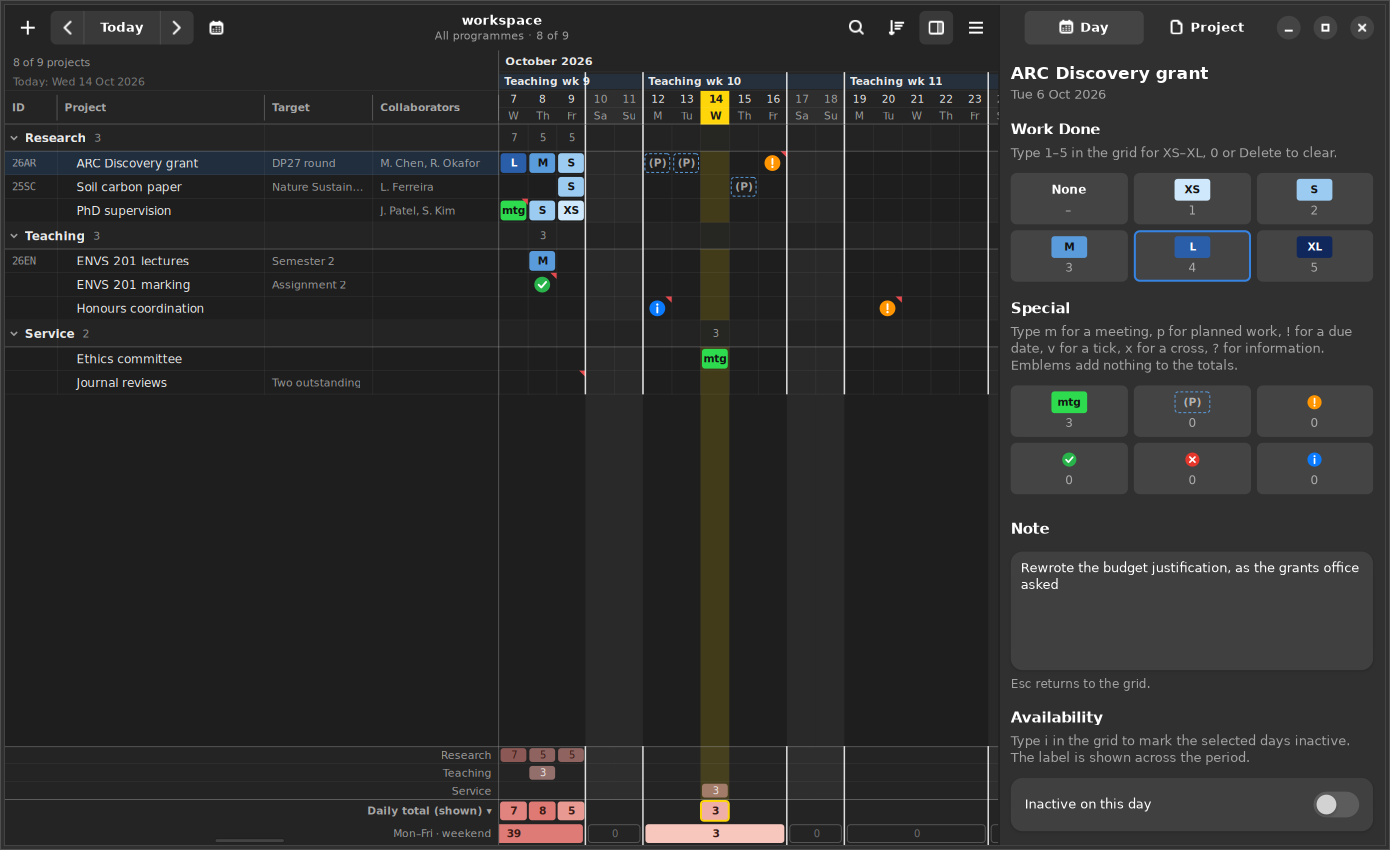
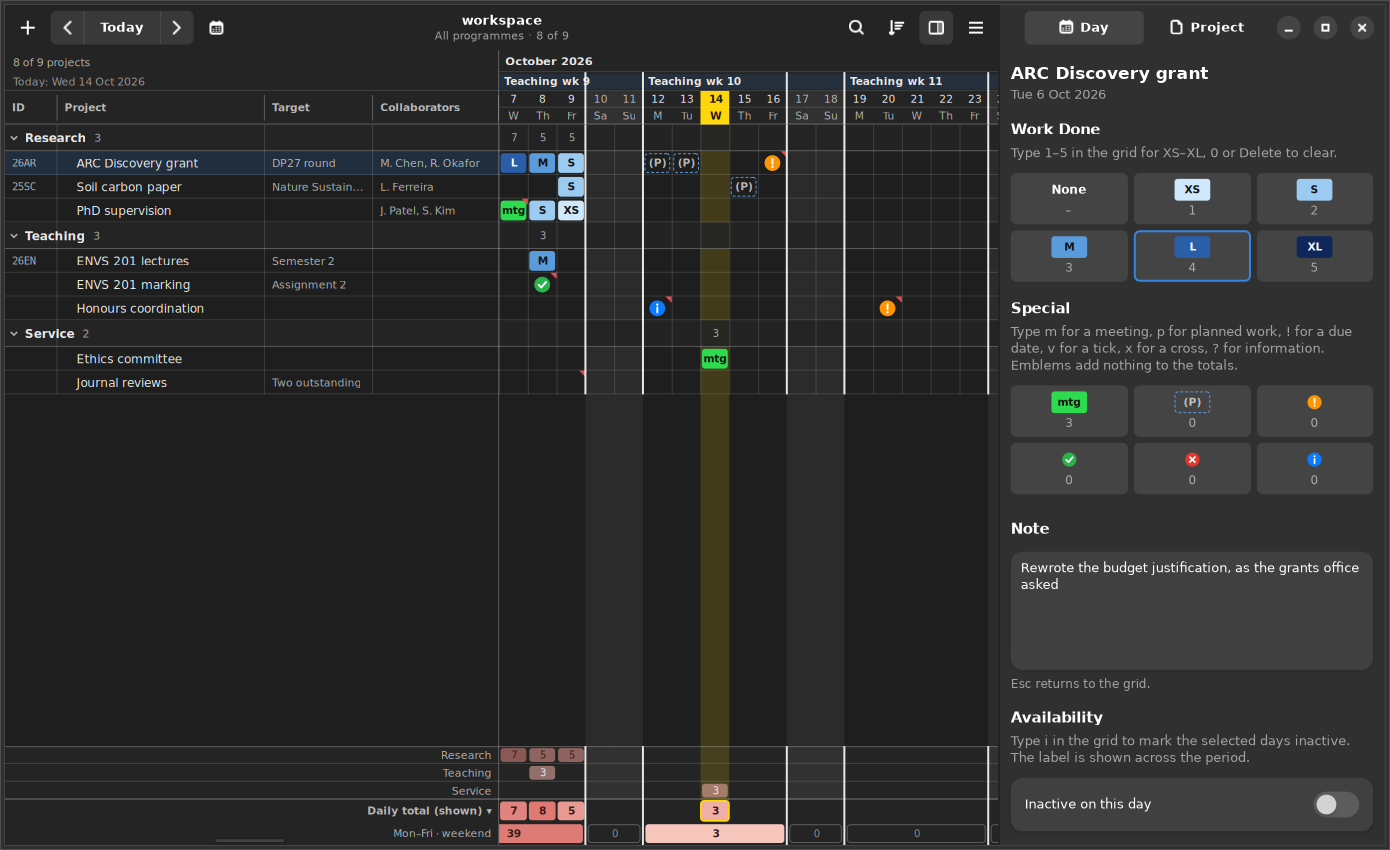
[AI-assisted] [fix] Make grid lines, hatching and greys as crisp and dark as on macOS
Grid lines were drawn half a pixel wide at half-pixel positions, with a fractional scroll offset, so on 1× screens they were blended over two pixels at half strength; the grid now draws on whole device pixels, matching the macOS edition's 0.5 pt Retina lines. Grid lines, inactive-day hatching and the weekend tint are a step darker, and dimmed text gets a little more contrast through one palette constant, leaving the label and totals colours unchanged.

Changed region(s): [[0.4022, 0.1529, 0.4331, 0.1835]]

diff --git a/qdvc/gtk4/gtk4_grid.py b/qdvc/gtk4/gtk4_grid.py
@@ -298,6 +298,7 @@ class ProgressGrid(Gtk.DrawingArea, Gtk.Scrollable):
         self._menu: Gtk.PopoverMenu | None = None
         self.callout = NoteCallout(self)
         self._hsig = self._vsig = None
+        self._px = 1.0           # one device pixel, in widget units
 
         self.connect("notify::hadjustment", self._on_adjustment_set, "h")
         self.connect("notify::vadjustment", self._on_adjustment_set, "v")
@@ -482,7 +483,11 @@ class ProgressGrid(Gtk.DrawingArea, Gtk.Scrollable):
         s, m = self.s, self.m
         pal = Palette(self)
         lw, top, bw, bh = self._viewport()
-        ox, oy = self.ox, self.oy
+        # Whole device pixels: with a fractional scroll offset every line
+        # would be blended over two pixels at half strength.
+        sf = max(1, self.get_scale_factor())
+        self._px = 1.0 / sf
+        ox, oy = round(self.ox * sf) / sf, round(self.oy * sf) / sf
         days = m.days_in(ox, ox + bw)
         rows = m.rows_in(oy, oy + bh)
 
@@ -535,13 +540,16 @@ class ProgressGrid(Gtk.DrawingArea, Gtk.Scrollable):
     def _working_week_lines(self, cr, pal, days, x_of, y, h):
         if not self.s.outline_working_week or h <= 0:
             return
+        # 1.5 px, as the macOS edition's 1.5 pt, rounded to whole device
+        # pixels and centred on the column boundary.
+        px = self._px
+        w = max(1, round(1.5 / px)) * px
         rgba(cr, pal.text(0.85))
         for d in range(days.start - 1, days.stop + 1):
             wd = self.s.date_at(d).isoweekday()
-            if wd == 1:
-                cr.rectangle(x_of(d) - 0.75, y, 1.5, h)
-            elif wd == 5:
-                cr.rectangle(x_of(d + 1) - 0.75, y, 1.5, h)
+            if wd in (1, 5):
+                edge = x_of(d) if wd == 1 else x_of(d + 1)
+                cr.rectangle(round((edge - w / 2) / px) * px, y, w, h)
         cr.fill()
 
     def _draw_body(self, cr, pal, days, rows, ox, oy, bw, bh):
@@ -580,8 +588,8 @@ class ProgressGrid(Gtk.DrawingArea, Gtk.Scrollable):
                     continue
                 start, end = max(period.range.start, first_day), min(period.range.end, last_day)
                 x0, x1 = m.day_x(s.day_index(start)), m.day_x(s.day_index(end) + 1)
-                rect(cr, x0, top, x1 - x0, h, pal.tint(0.05))
-                hatch(cr, x0, top, x1 - x0, h, pal.text(0.22))
+                rect(cr, x0, top, x1 - x0, h, pal.tint(0.07))
+                hatch(cr, x0, top, x1 - x0, h, pal.text(0.30))
                 label = period.label.strip()
                 if not label:
                     continue
@@ -619,12 +627,12 @@ class ProgressGrid(Gtk.DrawingArea, Gtk.Scrollable):
         bottom = min(y1, m.content_h)
         for d in days:
             weekstart = s.date_at(d).isoweekday() == 1
-            rect(cr, m.day_x(d), y0, 1 if weekstart else 0.5, max(0, bottom - y0),
+            rect(cr, m.day_x(d), y0, 1 if weekstart else self._px, max(0, bottom - y0),
                  pal.line(weekstart))
         for r in rows:
             y = m.row_tops[r + 1]
-            rect(cr, ox, y - 0.5, bw, 0.5 if not s.rows[r].is_programme else 1,
-                 pal.line(s.rows[r].is_programme))
+            w = 1 if s.rows[r].is_programme else self._px
+            rect(cr, ox, y - w, bw, w, pal.line(s.rows[r].is_programme))
         self._working_week_lines(cr, pal, days, m.day_x, y0, bottom - y0)
         self._draw_selection(cr, pal)
 
@@ -712,7 +720,7 @@ class ProgressGrid(Gtk.DrawingArea, Gtk.Scrollable):
 
         self._working_week_lines(cr, pal, days, x, ry[1], h_total - ry[1])
         for i in (1, 2, 3):
-            rect(cr, 0, ry[i] - 0.5, bw, 0.5, pal.line())
+            rect(cr, 0, ry[i] - self._px, bw, self._px, pal.line())
         rect(cr, 0, h_total - 1, bw, 1, pal.line(True))
 
     def _draw_left(self, cr, pal, rows, oy, lw, bh):
@@ -735,7 +743,7 @@ class ProgressGrid(Gtk.DrawingArea, Gtk.Scrollable):
                 f.draw(cr, title, 22 * f.scale, y, tw + 2, h, f.programme, pal.text(0.9))
                 f.draw(cr, str(row.count), 22 * f.scale + tw + 8, y, 40, h, f.secondary,
                        pal.text(0.5), numeric=True)
-                rect(cr, 0, y + h - 0.5, lw, 1, pal.line(True))
+                rect(cr, 0, y + h - 1, lw, 1, pal.line(True))
                 continue
             p = s.project(row.key)
             if p is None:
@@ -756,10 +764,10 @@ class ProgressGrid(Gtk.DrawingArea, Gtk.Scrollable):
                     f.draw(cr, p.target, tx, y, tw, h, f.secondary, pal.text(0.55))
                 else:
                     f.draw(cr, p.collaborators, tx, y, tw, h, f.secondary, pal.text(0.55))
-            rect(cr, 0, y + h - 0.5, lw, 0.5, pal.line())
+            rect(cr, 0, y + h - self._px, lw, self._px, pal.line())
         height = min(bh, m.content_h - oy)
         for _, cx, cw in m.columns[:-1]:
-            rect(cr, cx + cw - 0.5, 0, 0.5, max(0, height), pal.line())
+            rect(cr, cx + cw - self._px, 0, self._px, max(0, height), pal.line())
         rect(cr, lw - 1, 0, 1, bh, pal.line(True))
 
     def _draw_chevron(self, cr, pal, cx, cy, collapsed):
@@ -792,7 +800,7 @@ class ProgressGrid(Gtk.DrawingArea, Gtk.Scrollable):
                 title += " \u25b2" if s.query.ascending else " \u25bc"
             f.draw(cr, title, cx + 7, top, cw - 12, hh, f.header_bold, pal.text(0.6))
             rect(cr, cx + cw - 1, top + 4, 1, hh - 8, pal.line(True))
-        rect(cr, 0, top - 0.5, lw, 0.5, pal.line())
+        rect(cr, 0, top - self._px, lw, self._px, pal.line())
         rect(cr, 0, m.header_h - 1, lw, 1, pal.line(True))
         rect(cr, lw - 1, 0, 1, m.header_h, pal.line(True))
 
@@ -829,7 +837,7 @@ class ProgressGrid(Gtk.DrawingArea, Gtk.Scrollable):
                 if pal.dark and level <= 0.3:
                     colour = pal.text(0.85)
                 f.centred(cr, str(t), cx, y, m.cell_w, sub, f.small, colour)
-            rect(cr, 0, y + sub - 0.5, bw, 0.5, pal.line())
+            rect(cr, 0, y + sub - self._px, bw, self._px, pal.line())
 
         t0 = m.totals_top
         r0, r1 = m.footer_rows
@@ -864,7 +872,7 @@ class ProgressGrid(Gtk.DrawingArea, Gtk.Scrollable):
         self._working_week_lines(cr, pal, days, x, 0, fh)
         rect(cr, 0, 0, bw, 1, pal.line(True))
         if t0 > 0:
-            rect(cr, 0, t0 - 0.5, bw, 1, pal.line(True))
+            rect(cr, 0, t0 - 1, bw, 1, pal.line(True))
 
     def _span(self, cr, pal, total, peak, x, y, w, h):
         f = self.fonts
@@ -891,7 +899,7 @@ class ProgressGrid(Gtk.DrawingArea, Gtk.Scrollable):
             y = i * sub
             f.draw(cr, programme_title(programme), 8, y, lw - 16, sub, f.secondary,
                    pal.text(0.55), "right")
-            rect(cr, 0, y + sub - 0.5, lw, 0.5, pal.line())
+            rect(cr, 0, y + sub - self._px, lw, self._px, pal.line())
         t0 = m.totals_top
         r0, r1 = m.footer_rows
         scope = "shown" if s.totals_scope is TotalsScope.VISIBLE else "all"
@@ -901,7 +909,7 @@ class ProgressGrid(Gtk.DrawingArea, Gtk.Scrollable):
                pal.text(0.55), "right")
         rect(cr, 0, 0, lw, 1, pal.line(True))
         if t0 > 0:
-            rect(cr, 0, t0 - 0.5, lw, 1, pal.line(True))
+            rect(cr, 0, t0 - 1, lw, 1, pal.line(True))
         rect(cr, lw - 1, 0, 1, fh, pal.line(True))
 
     # ------------------------------------------------------------------

diff --git a/qdvc/gtk4/gtk4_paint.py b/qdvc/gtk4/gtk4_paint.py
@@ -51,19 +51,30 @@ class Palette:
             return (c.red, c.green, c.blue, 1.0)
         return self._lookup(widget, "accent_bg_color", (0.208, 0.518, 0.894))
 
+    #: Greys are drawn this much nearer to the full foreground than their
+    #: nominal alpha (0.55 → 0.64, 0.35 → 0.48). GTK's grayscale text and
+    #: 1× screens make dimmed text look lighter than AppKit's at the same
+    #: alpha; this keeps the grid's secondary text as legible as on a Mac.
+    GREY_CONTRAST = 0.2
+
     def text(self, alpha=1.0):
         """The foreground, at ``alpha`` (0.55 secondary, 0.35 tertiary)."""
+        if alpha < 0.9:
+            alpha = alpha + (1 - alpha) * self.GREY_CONTRAST
         return (*self.fg[:3], alpha)
 
     def line(self, strong=False):
-        return (*self.fg[:3], 0.22 if strong else 0.09)
+        """Grid lines; drawn one device pixel wide (see ProgressGrid._px)."""
+        if self.dark:
+            return (*self.fg[:3], 0.26 if strong else 0.13)
+        return (*self.fg[:3], 0.30 if strong else 0.14)
 
     def tint(self, alpha):
         return (*self.fg[:3], alpha)
 
     @property
     def weekend(self):
-        return self.tint(0.05 if self.dark else 0.04)
+        return self.tint(0.06 if self.dark else 0.05)
 
 
 def rgba(cr, c, alpha: float | None = None) -> None:

diff --git a/tools/snapshot.py b/tools/snapshot.py
@@ -97,6 +97,18 @@ def grid_shot():
 
 
 @step
+def inactive():
+    s = app.window.s
+    s.go_to(Date(2026, 9, 28))
+    s.select(CellRef("journal-reviews", Date(2026, 9, 28)))
+
+
+@step
+def inactive_shot():
+    shoot("inactive")
+
+
+@step
 def project_panel():
     app.window.show_project()
 

diff --git a/ai-assistance-logs/2026-10-14-claude.md b/ai-assistance-logs/2026-10-14-claude.md
@@ -179,3 +179,35 @@ Recommended commit message:
 Adds a Python/PyGObject edition of QDVC Progress with a pure, tested core, a custom-drawn grid with frozen panes inside a GNOME-style window (Calendar-style date navigation, view options menu, adaptive side panel, preferences, toasts, banners and shortcuts), and reads and writes the macOS edition's workspace format byte for byte. Includes scripts/build-app.sh for checked, tested per-user install with desktop entry and icons, a GNOME-style icon generator, headless snapshot tooling, and README, design, file-format and maintenance docs recording the deviations from the QDVC GTK spec.
 
 Co-authored-by: Claude <noreply@anthropic.com>
+
+_Committed as b506323ba814f373efc58458dc7b87c4154e2660_
+
+## 5. User request
+
+Good work.
+
+Compared to the Mac version, the grid lines and inactive cells' shading lines are too light, it is like having a screen with the gamma set too bright. The colours (greens, blues, reds, oranges, yellows, etc.) are fine, it's just the greys and blacks that feel a bit too light at the moment.
+
+## 6. LLM response
+
+The likely cause is more than the grey values. Mac grid lines are 0.5 pt, which is one crisp device pixel on a Retina screen. My port drew 0.5 px lines, often at half-pixel positions, so cairo smeared them across two pixels at roughly half strength, and the hatching suffered the same way. I'll check where the grid draws its lines:
+
+The grid lines and the hatching on inactive days are now darker and crisp, and the grey text has a bit more weight. Your colours are unchanged. I rendered the same view with the old and new code side by side, and the difference is clear.
+
+Most of the washed-out look wasn't the grey values themselves. On the Mac, the thin grid lines are one sharp pixel on a Retina screen. In my port they were half a pixel wide and often sat between two pixels, so the screen blurred each one across two pixels at about half strength. Scrolling made it worse, because it could leave the whole grid off by a fraction of a pixel.
+
+- **Lines:** every line now lands on a whole pixel, one pixel wide, which matches the Mac's look on a normal monitor and stays sharp on HiDPI screens. The Monday/Friday outline is snapped too, at two pixels wide on a normal screen.
+- **Shading:** grid lines, the inactive-day hatching and its background, and the weekend tint are all a step darker. Dark mode has its own matching values.
+- **Grey text:** secondary and faint text (collaborators, targets, IDs, subtotals, weekday letters, unlabelled week numbers) is drawn a little nearer to full black. That is one setting, `GREY_CONTRAST` in `qdvc/gtk4/gtk4_paint.py`, if you want to tune it further.
+
+All tests pass, the README screenshots are refreshed, and `docs/MAINTENANCE.md` now notes that lines must stay on whole pixels so this doesn't creep back. `tools/snapshot.py` can also render a scrolled-back view that shows inactive periods, which helps with checks like this.
+
+Updated codebase: qdvc-progress.zip
+
+Recommended commit message:
+
+[AI-assisted] [fix] Make grid lines, hatching and greys as crisp and dark as on macOS
+
+Grid lines were drawn half a pixel wide at half-pixel positions, with a fractional scroll offset, so on 1× screens they were blended over two pixels at half strength; the grid now draws on whole device pixels, matching the macOS edition's 0.5 pt Retina lines. Grid lines, inactive-day hatching and the weekend tint are a step darker, and dimmed text gets a little more contrast through one palette constant, leaving the label and totals colours unchanged.
+
+Co-authored-by: Claude <noreply@anthropic.com>

diff --git a/docs/MAINTENANCE.md b/docs/MAINTENANCE.md
@@ -108,6 +108,13 @@ with GLib timeouts and the tests leave inert.
 - Atomic writes keep the file mode (mkstemp's private 0600 is not kept).
 - The grid's adjustments must be configured whenever `Metrics` changes
   (`ProgressGrid._configure`), or the scrollbars disagree with the content.
+- Grid lines are whole device pixels: `_draw` rounds the scroll offset to
+  device pixels, and thin lines are `self._px` (one device pixel) wide at
+  whole-pixel positions. Never draw a 0.5-unit line or offset a line by 0.5:
+  on a 1× screen cairo blends it over two pixels at half strength, and the
+  grid looks washed out (the macOS edition's 0.5 pt lines are one crisp
+  pixel on a Retina screen). Grey levels are in `gtk4_paint.Palette`
+  (`line()`, `weekend`, and `GREY_CONTRAST` for dimmed text).
 
 ## 4. Deviations from the specification
 
